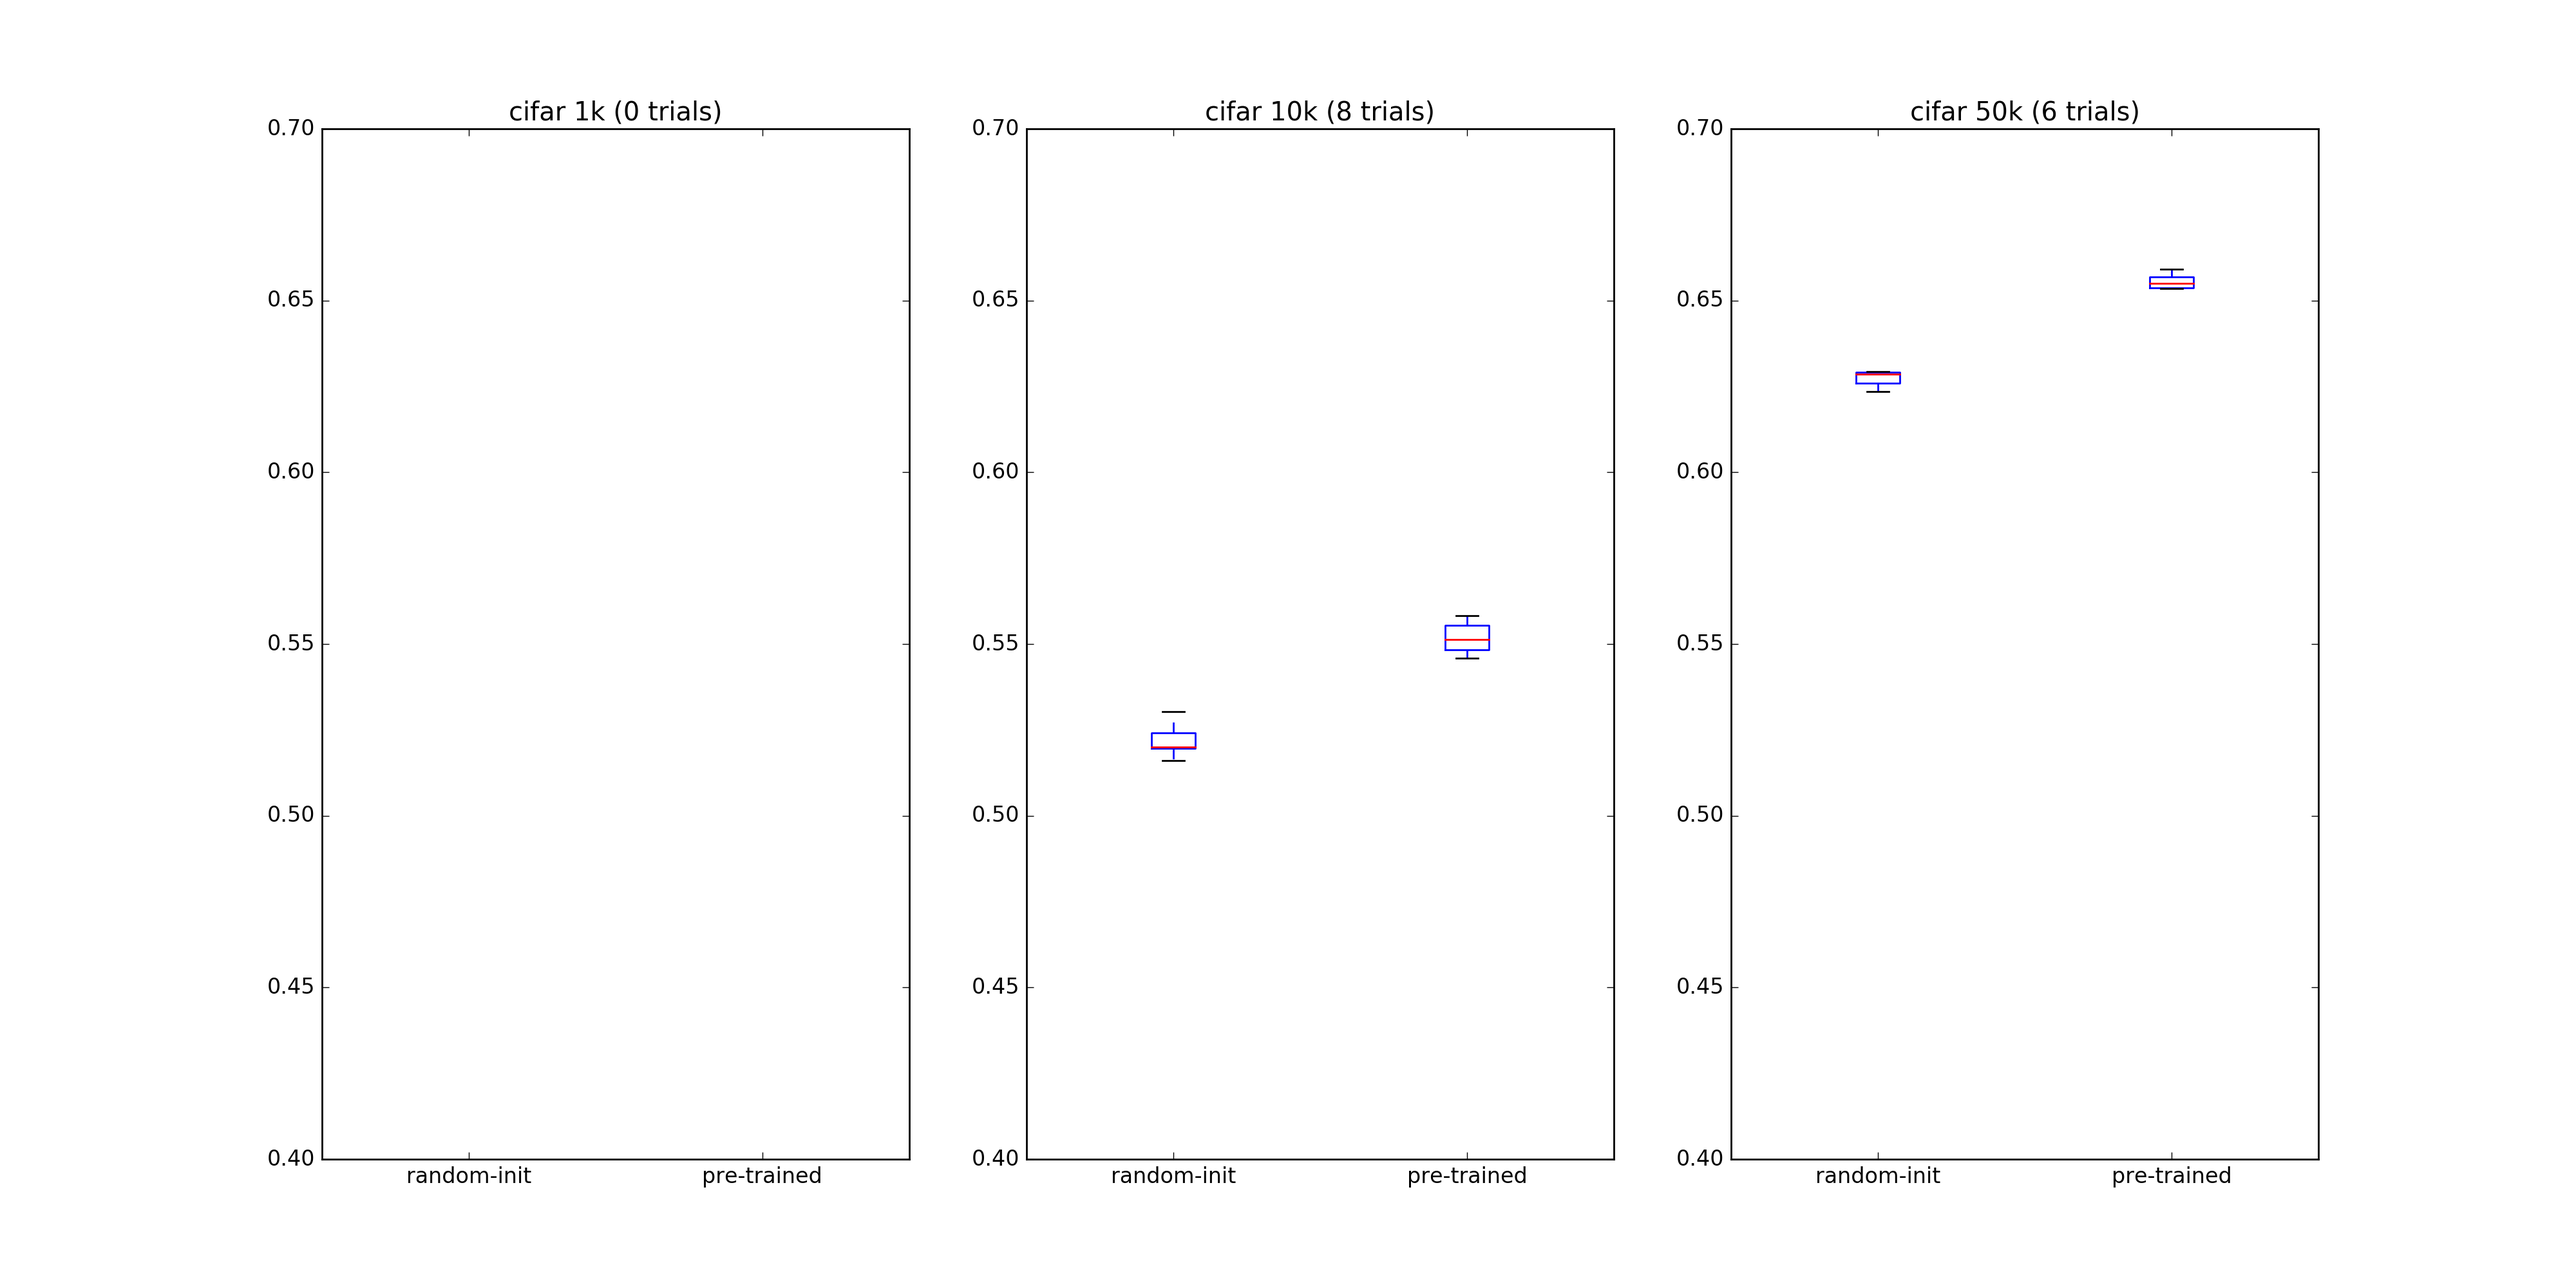
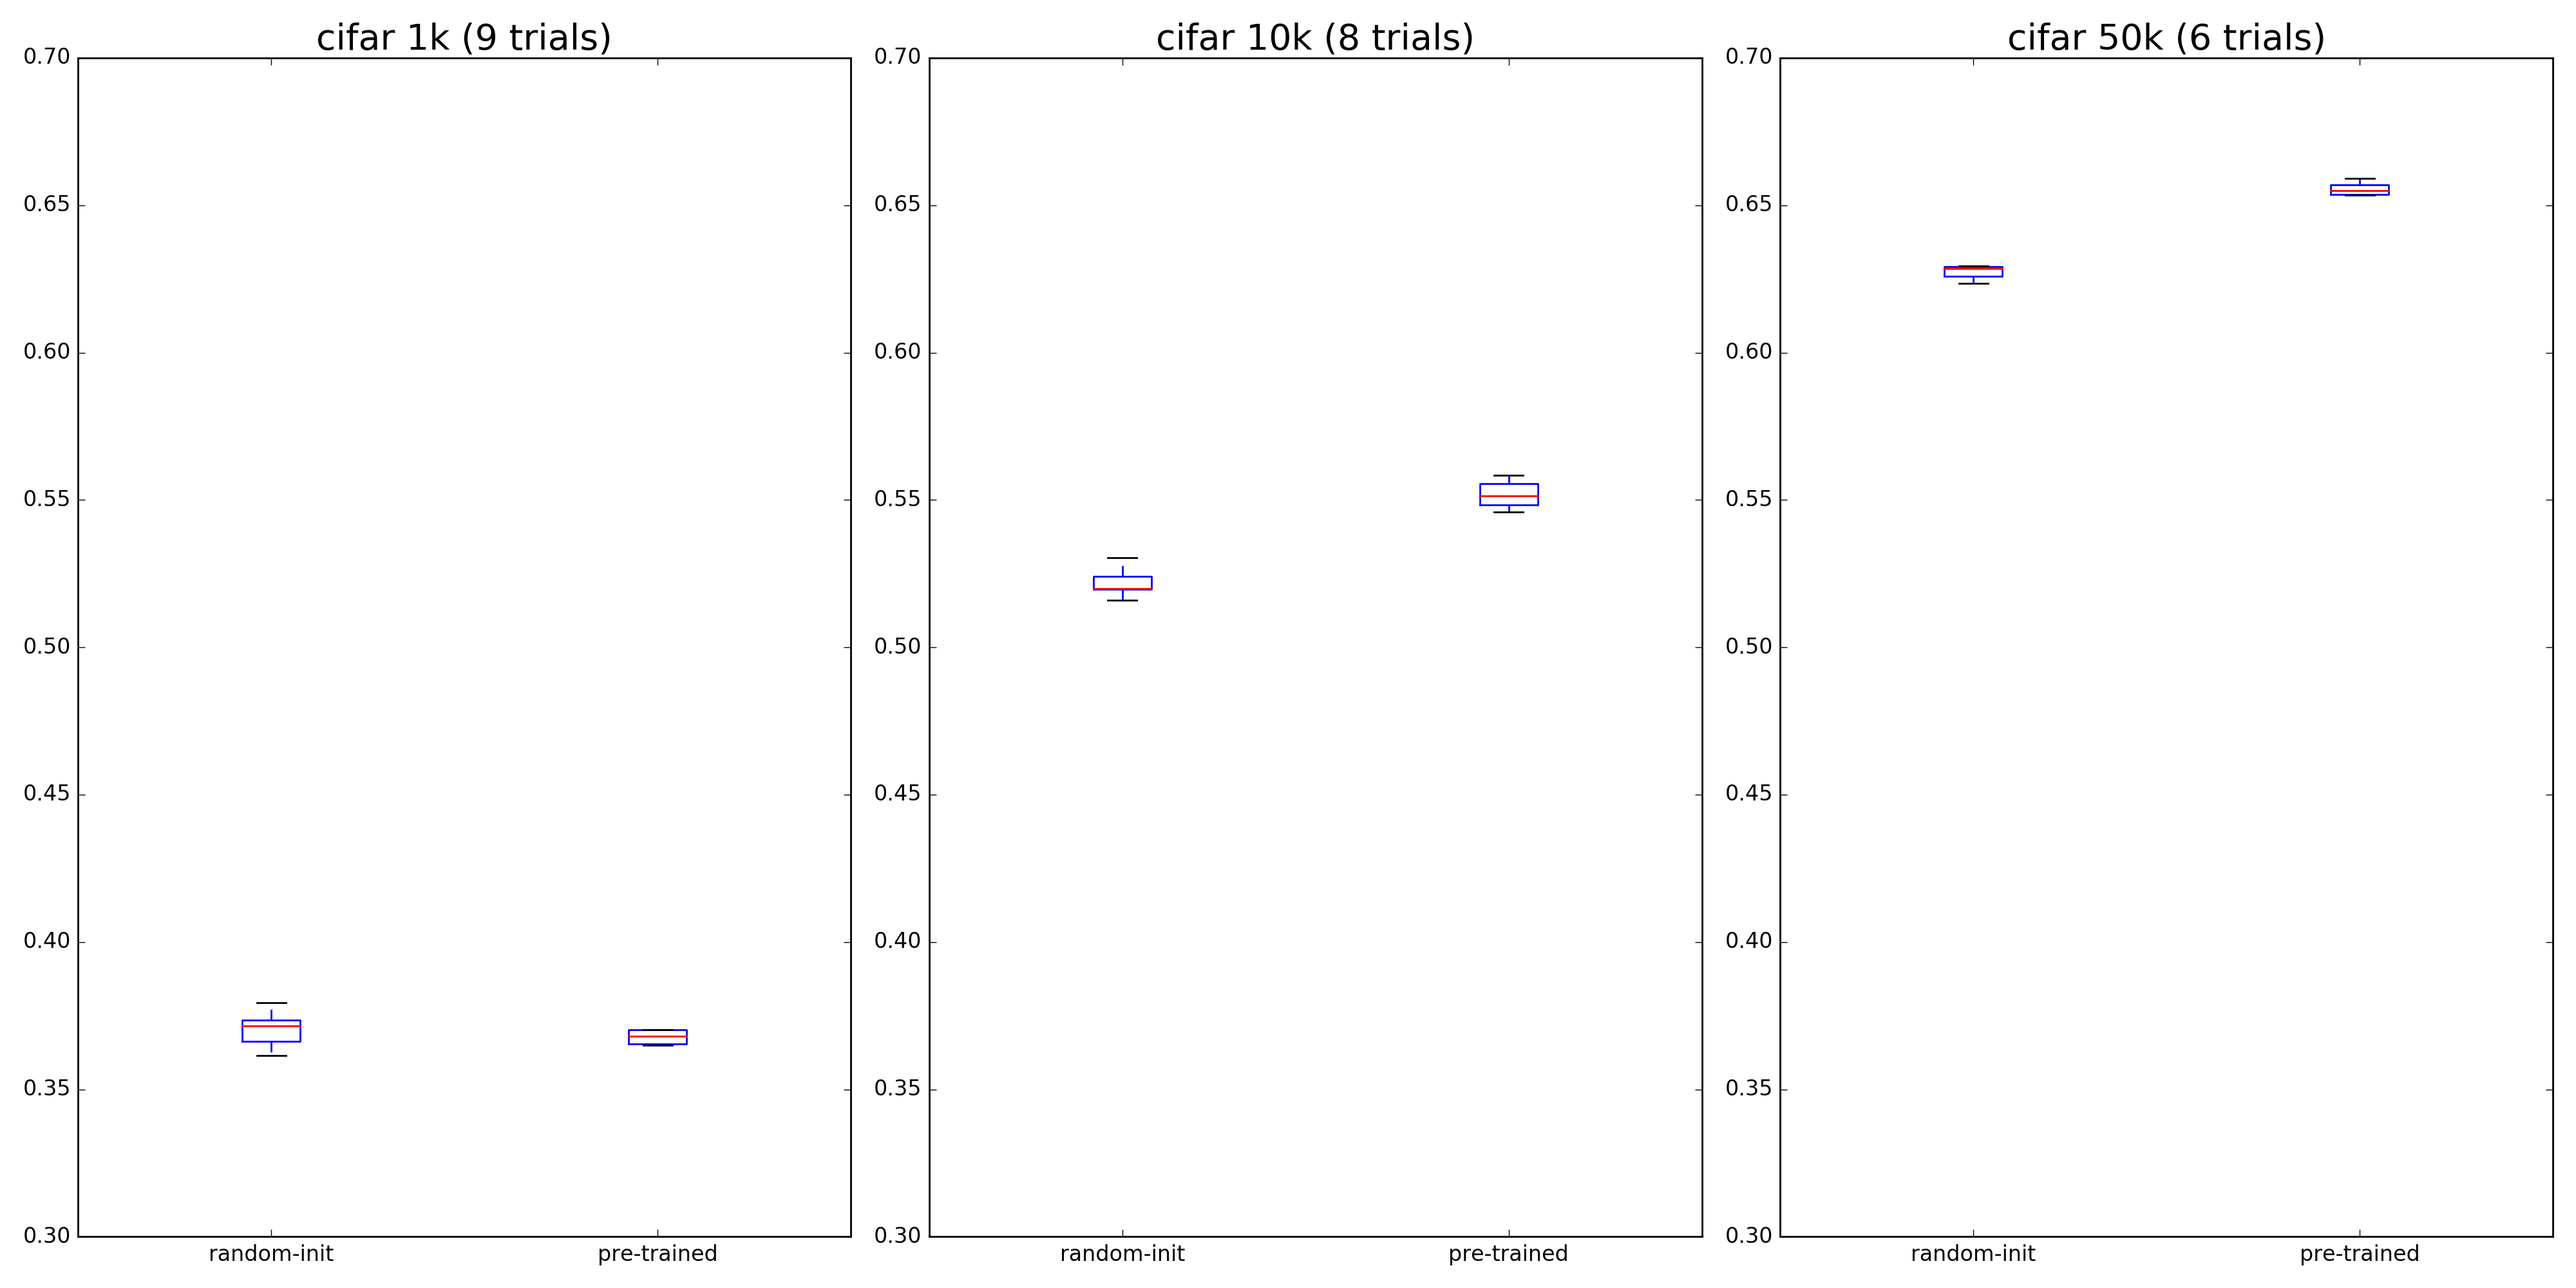
worked on poster

diff --git a/poster/nip-poster.tex b/poster/nip-poster.tex
@@ -24,16 +24,12 @@
 
 \documentclass[final]{beamer}
 
+\usepackage{subcaption}
+
 \usepackage[scale=1.24]{beamerposter} % Use the beamerposter package for laying out the poster
 \usepackage[utf8]{inputenc}
 
 \usetheme{confposter} % Use the confposter theme supplied with this template
-
-\setbeamercolor{block title}{fg=ngreen,bg=white} % Colors of the block titles
-\setbeamercolor{block body}{fg=black,bg=white} % Colors of the body of blocks
-\setbeamercolor{block alerted title}{fg=white,bg=dblue!70} % Colors of the highlighted block titles
-\setbeamercolor{block alerted body}{fg=black,bg=dblue!10} % Colors of the body of highlighted blocks
-% Many more colors are available for use in beamerthemeconfposter.sty
 
 %-----------------------------------------------------------
 % Define the column widths and overall poster size
@@ -108,8 +104,8 @@
 \begin{block}{Experimental setup}
 
 \begin{figure}
-\includegraphics[width=0.8\linewidth]{graphics/setup.png}
-\caption{Bisectrices de un ángulo}
+\includegraphics[width=\linewidth]{graphics/setup.png}
+\caption{Pre-training setup}
 \end{figure}
 
 \end{block}
@@ -118,24 +114,15 @@
 %	INTRODUCTION
 %----------------------------------------------------------------------------------------
 
-\begin{block}{CIFAR-10}
+\begin{block}{CAE}
 \begin{figure}
-\includegraphics[width=0.8\linewidth]{graphics/cifar_filters.png}
-\caption{selection of CAE first layer filters on CIFAR10}
+\includegraphics[width=0.8\linewidth]{graphics/feature_map_walkthrough_mnist.png}
+\caption{MNIST CAE reconstruction}
 \end{figure}
-
 \end{block}
 
 \setbeamercolor{block alerted title}{fg=black,bg=dorado} % Change the alert block title colors
 \setbeamercolor{block alerted body}{fg=black,bg=white} % Change the alert block body colors
-
-\begin{alertblock}{miscellaneous findings}
-\begin{itemize}
-	\item (pixel-wise) average cross-entropy not suited for convolutional autoencoder (useful for non-conv)
-	\item max-pooling for regularization 
-\end{itemize}
-\end{alertblock}
-
 
 \end{column} % End of the first column
 
@@ -154,10 +141,7 @@
 
 \begin{block}{MNIST}
 
-\begin{figure}
-\includegraphics[width=0.8\linewidth]{graphics/mnist_reconstructions.png}
-\caption{MNIST CAE reconstruction}
-\end{figure}
+
 
 \end{block}
 %------------------------------------------------
@@ -195,8 +179,11 @@
 \end{block}
 
 \begin{figure}
-\includegraphics[width=0.8\linewidth]{graphics/cifar_reconstructions.png}
-\caption{Diagrama del problema}
+%\includegraphics[width=0.8\linewidth]{graphics/cifar_reconstructions.png}
+\includegraphics[width=0.5\linewidth]{graphics/cifar_image.png}
+\includegraphics[width=0.5\linewidth]{graphics/cifar_reconstruction.png}
+
+\caption{CIFAR reconstruction}
 \end{figure}
 
 \begin{block}{Stats}
@@ -218,6 +205,40 @@
 \caption{boxplot of training accuracies}
 \end{figure}
 
+\begin{figure}
+\centering
+
+\begin{subfigure}{.4\linewidth}
+\centering
+\includegraphics[width=0.1\linewidth]{graphics/cifar_filters/pre_trained_01.png} \hspace{0.05\linewidth}
+\includegraphics[width=0.1\linewidth]{graphics/cifar_filters/pre_trained_02.png} \hspace{0.05\linewidth}
+\includegraphics[width=0.1\linewidth]{graphics/cifar_filters/pre_trained_03.png}\\
+\includegraphics[width=0.1\linewidth]{graphics/cifar_filters/pre_trained_04.png} \hspace{0.05\linewidth}
+\includegraphics[width=0.1\linewidth]{graphics/cifar_filters/pre_trained_05.png} \hspace{0.05\linewidth}
+\includegraphics[width=0.1\linewidth]{graphics/cifar_filters/pre_trained_06.png}\\
+\includegraphics[width=0.1\linewidth]{graphics/cifar_filters/pre_trained_07.png} \hspace{0.05\linewidth}
+\includegraphics[width=0.1\linewidth]{graphics/cifar_filters/pre_trained_08.png} \hspace{0.05\linewidth}
+\includegraphics[width=0.1\linewidth]{graphics/cifar_filters/pre_trained_09.png}
+\caption{pre-trained}
+\end{subfigure}
+\begin{subfigure}{.4\linewidth}
+\centering
+\includegraphics[width=0.1\linewidth]{graphics/cifar_filters/random_01.png}\hspace{0.05\linewidth}
+\includegraphics[width=0.1\linewidth]{graphics/cifar_filters/random_02.png}\hspace{0.05\linewidth}
+\includegraphics[width=0.1\linewidth]{graphics/cifar_filters/random_03.png}\\
+\includegraphics[width=0.1\linewidth]{graphics/cifar_filters/random_04.png}\hspace{0.05\linewidth}
+\includegraphics[width=0.1\linewidth]{graphics/cifar_filters/random_05.png}\hspace{0.05\linewidth}
+\includegraphics[width=0.1\linewidth]{graphics/cifar_filters/random_06.png}\\
+\includegraphics[width=0.1\linewidth]{graphics/cifar_filters/random_07.png}\hspace{0.05\linewidth}
+\includegraphics[width=0.1\linewidth]{graphics/cifar_filters/random_08.png}\hspace{0.05\linewidth}
+\includegraphics[width=0.1\linewidth]{graphics/cifar_filters/random_09.png}
+\caption{random-init}
+\end{subfigure}
+
+\caption{random first-layer filters of CNN's trained on the whole CIFAR-10 dataset}
+
+\end{figure}
+
 \end{block}
 
 \end{column} % End of column 3
@@ -232,11 +253,11 @@
 
 \begin{block}{CK+ Dataset}
 \begin{figure}
-
-\includegraphics[width=0.8\linewidth]{graphics/ckplus_reconstructions_better.png}
-\caption{Triángulos con ángulo común}
+\includegraphics[width=0.5\linewidth]{graphics/face.png}	
+\includegraphics[width=0.5\linewidth]{graphics/reconst.png}
+%\includegraphics[width=0.8\linewidth]{graphics/ckplus_reconstructions_better.png}
+\caption{CK+ input image (left) and reconstruction (right)}
 \end{figure}
-Para que practiques te dejamos la siguiente lista de problemas relacionados con bisectrices.
 %\begin{enumerate}
 
 \end{block}
@@ -253,6 +274,25 @@ Para que practiques te dejamos la siguiente lista de problemas relacionados con 
 
 \end{itemize}
 \end{block}
+
+\begin{block}{Experimental results}
+TODO: add the results
+\end{block}
+
+
+\setbeamercolor{block title}{fg=ngreen,bg=white} % Colors of the block titles
+\setbeamercolor{block body}{fg=black,bg=white} % Colors of the body of blocks
+\setbeamercolor{block alerted title}{fg=black, bg=gray} % Colors of the highlighted block titles
+\setbeamercolor{block alerted body}{fg=black, bg=white} % Colors of the body of highlighted blocks
+% Many more colors are available for use in beamerthemeconfposter.sty
+
+
+\begin{alertblock}{miscellaneous findings}
+\begin{itemize}
+	\item (pixel-wise) average cross-entropy not suited for convolutional autoencoder (useful for non-conv)
+	\item max-pooling for regularization did not work on the relu autoencoder
+\end{itemize}
+\end{alertblock}
 
 %\begin{block}{References}
 

diff --git a/poster/box_plots/create_boxplots.py b/poster/box_plots/create_boxplots.py
@@ -3,7 +3,7 @@ import numpy as np
 
 def main():
 
-	# create_mnist_boxplot()
+	create_mnist_boxplot()
 	create_cifar_boxplot()
 	create_ckplus_boxplot()
 
@@ -12,8 +12,8 @@ def create_cifar_boxplot():
 	# CIFAR #
 	## ### ##
 
-	cifar_1k_pre_trained = []
-	cifar_1k_random_init = []
+	cifar_1k_pre_trained = [0.3655, 0.3703, 0.3681, 03634, 0.3650, 0.3698, 0.3800, 0.3679, 0.3652] 
+	cifar_1k_random_init = [0.3628, 0.3754, 0.3712, 0.3614, 0.3721, 0.3729, 0.3648, 0.3793, 0.3704, 0.3737]
 	cifar_1k = [cifar_1k_random_init, cifar_1k_pre_trained]
 	cifar_1k_trial_count = min(len(cifar_1k_pre_trained), len(cifar_1k_random_init))
 
@@ -27,7 +27,7 @@ def create_cifar_boxplot():
 	cifar_full = [cifar_full_random_init, cifar_full_pre_trained]
 	cifar_full_trial_count = min(len(cifar_full_random_init), len(cifar_full_pre_trained))
 
-	cifar_ylims = 0.4, 0.7
+	cifar_ylims = 0.3, 0.7
 
 	data 			= [cifar_1k, cifar_10k, cifar_full]
 	trial_counts 	= [cifar_1k_trial_count, cifar_10k_trial_count, cifar_full_trial_count]
@@ -46,13 +46,19 @@ def create_mnist_boxplot():
 	## ### ##
 	# MNIST #
 	## ### ##
-	mnist_1k_pre_trained = [0.9038, 0.9009, 0.9009]
-	mnist_1k_random_init = [0.8980, 0.8913, 0.9003]
+	#mnist_1k_pre_trained = [0.9038, 0.9009, 0.9009]
+	#mnist_1k_random_init = [0.8980, 0.8913, 0.9003]
+	mnist_1k_pre_trained = [0.9109, 0.9129, 0.9135, 0.9091, 0.9083, 0.9123, 0.9117, 0.9126, 0.9119, 0.9132]
+	mnist_1k_random_init = [0.9136, 0.9127, 0.9097, 0.9108, 0.9085, 0.9114, 0.9113, 0.9151, 0.9144, 0.9101]
 	mnist_1k = [mnist_1k_random_init, mnist_1k_pre_trained]
 	mnist_1k_trial_count = min(len(mnist_1k_pre_trained), len(mnist_1k_random_init))
 
-	mnist_10k_pre_trained = [0.9560, 0.9514, 0.9496, 0.9553, 0.9512, 0.9529, 0.9565, 0.9532, 0.9532, 0.9474, 0.9570, 0.9518, 0.9576, 0.9499, 0.9553, 0.9554, 0.9542, 0.9552, 0.9587, 0.9470]
-	mnist_10k_random_init = [0.9588, 0.9565, 0.9571, 0.9602, 0.9538, 0.9530, 0.9582, 0.9592, 0.9526, 0.9564, 0.9574, 0.9549, 0.9566, 0.9608, 0.9605, 0.9569, 0.9577, 0.9565, 0.9602, 0.9565]
+	# trained too short
+	#mnist_10k_pre_trained = [0.9560, 0.9514, 0.9496, 0.9553, 0.9512, 0.9529, 0.9565, 0.9532, 0.9532, 0.9474, 0.9570, 0.9518, 0.9576, 0.9499, 0.9553, 0.9554, 0.9542, 0.9552, 0.9587, 0.9470]
+	#mnist_10k_random_init = [0.9588, 0.9565, 0.9571, 0.9602, 0.9538, 0.9530, 0.9582, 0.9592, 0.9526, 0.9564, 0.9574, 0.9549, 0.9566, 0.9608, 0.9605, 0.9569, 0.9577, 0.9565, 0.9602, 0.9565]
+	mnist_10k_pre_trained = [0.9768, 0.9789]
+	mnist_10k_random_init = [0.9713, 0.9750]
+
 	mnist_10k = [mnist_10k_random_init, mnist_10k_pre_trained]
 	mnist_10k_trial_count = min(len(mnist_10k_random_init), len(mnist_10k_pre_trained))
 
@@ -69,7 +75,7 @@ def create_mnist_boxplot():
 	visualize_boxplot(data, 'mnist', [1,10,55], trial_counts, mnist_ylims)
 
 
-def visualize_boxplot(data, dataset_name, in_k_sizes, trials, ylims):
+def visualize_boxplot(data, dataset_name, in_k_sizes, trials, ylims, font_size = 20):
 
 	# presentation
 	fig = plt.figure(figsize=(20, 10))
@@ -80,12 +86,14 @@ def visualize_boxplot(data, dataset_name, in_k_sizes, trials, ylims):
 	for i in range(sets):
 
 		plt.subplot(1, sets, i+1)
-		plt.title('{} {}k ({} trials)'.format(dataset_name, in_k_sizes[i], trials[i]))
+		plt.title('{} {}k ({} trials)'.format(dataset_name, in_k_sizes[i], trials[i]), fontsize=font_size)
 		plt.ylim(ylims)
 		plt.boxplot(data[i], 0, '')
 		plt.xticks([1,2], x_labels)
 
 	filename = 'boxplots_{}.png'.format(dataset_name)
+
+	plt.tight_layout()
 
 	plt.savefig(filename, dpi=200)
 	plt.close(fig) 
